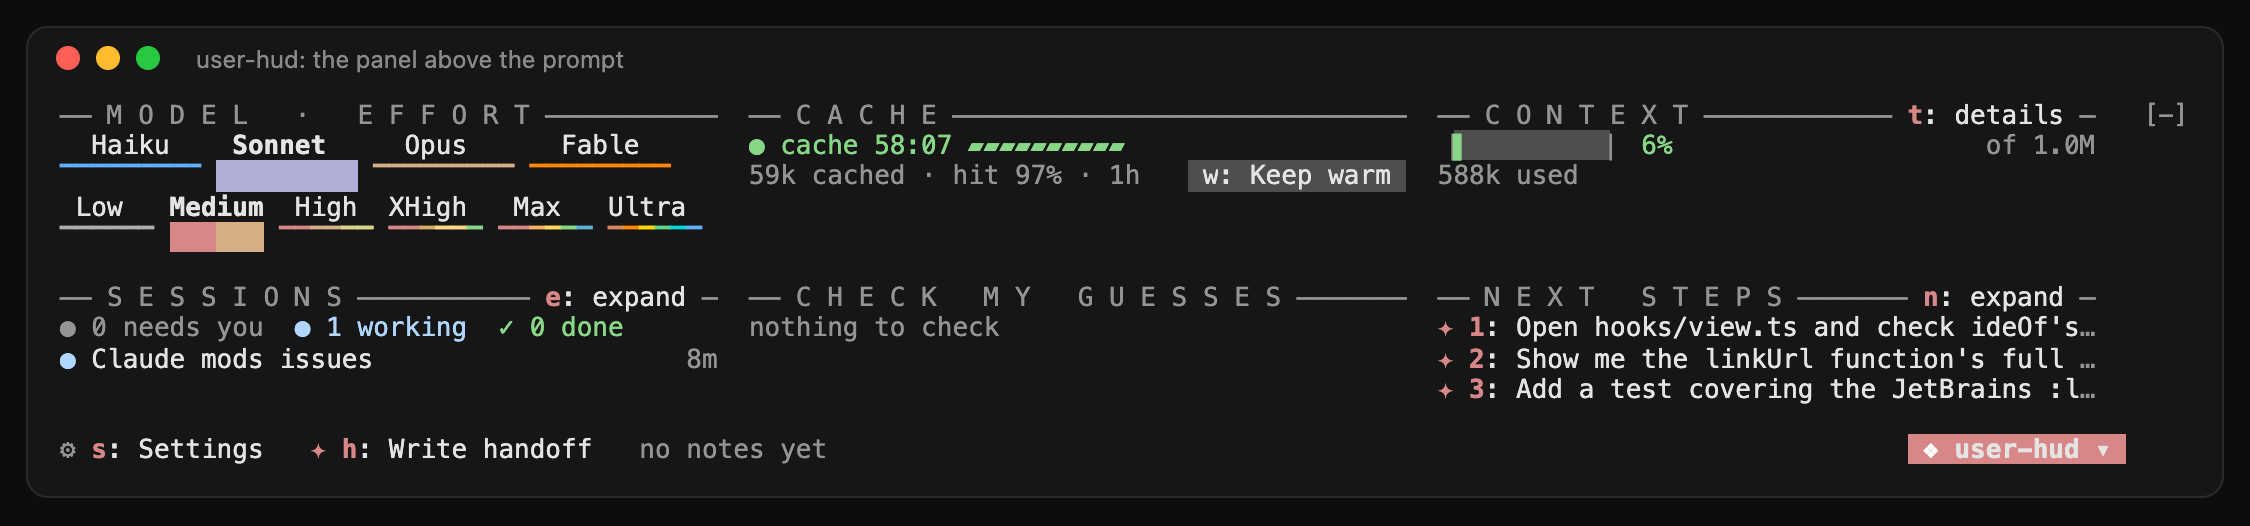
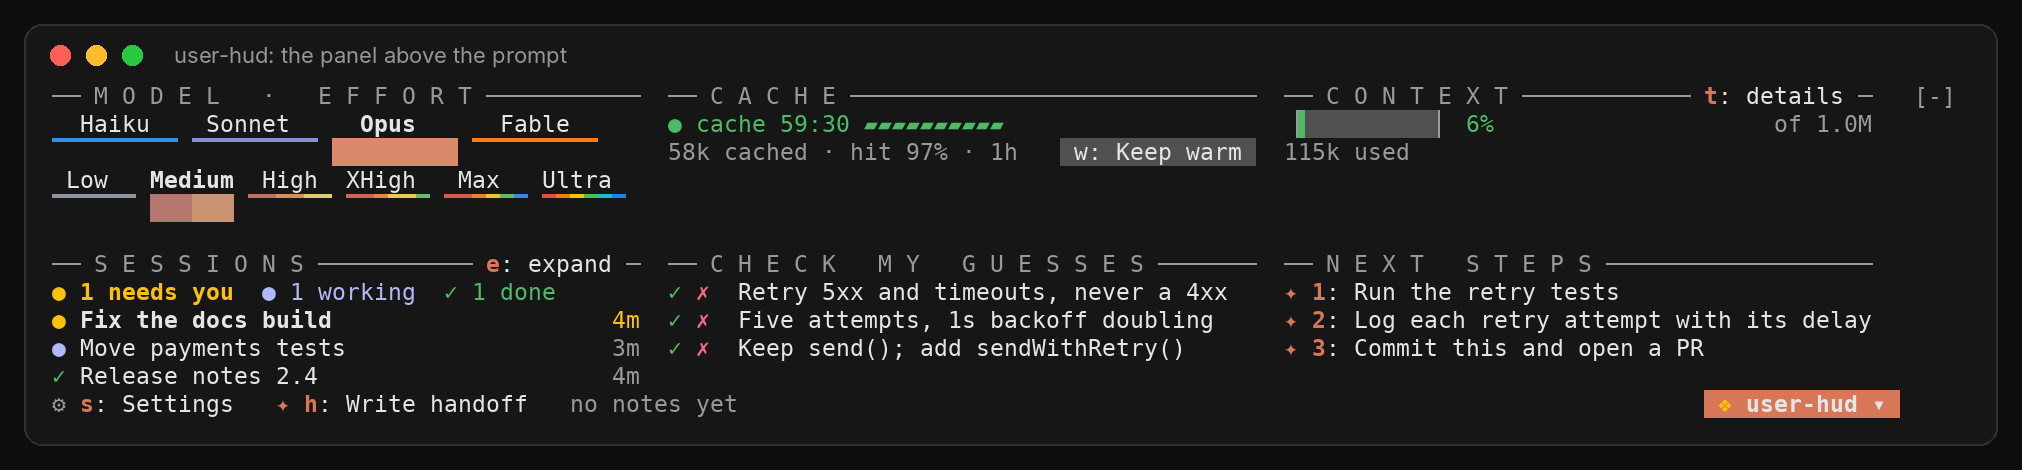
README: cache alert clip, a session that needs you, guesses filled, ask beside the chat
- user-hud: a new panel shot with one session that needs you and three
  guesses to check, a clip of the cache alert (the yellow card, the toast in
  Claude Code and the macOS alert, then Keep warm putting the countdown back
  to 5:00), and the Sessions pane.
- ask: the pane shown beside the main chat it answers from.
- Known issues: a click on a session brings its app forward, often not the
  session itself. Noted in plugins/user-hud too.

The shots come from real Claude Code 2.1.322 sessions in tmux with this
checkout's plugins, driven by a scripted stand-in for the Messages API. The
macOS alert in the clip is drawn from the title, text and timing the mod
passed to osascript, since the recording ran on Linux.

Claude-Session: https://claude.ai/code/session_01GBQBDm8ofqyuNFN33hyVpK

diff --git a/README.md b/README.md
@@ -67,7 +67,7 @@ Changes load in the next Claude Code session.
 
 ### user-hud
 
-![user-hud's panel: model and effort pickers, cache timer, context battery, sessions, guesses to check, next steps](docs/images/user-hud.png)
+![user-hud's panel: model and effort pickers, cache timer, context battery, one session that needs you, three guesses to check, next steps](docs/images/user-hud.png)
 
 A panel above the prompt, made of cards you can turn on or off:
 
@@ -78,6 +78,23 @@ A panel above the prompt, made of cards you can turn on or off:
 - **Check my guesses:** guesses Claude made for you, to mark right or wrong.
 - **Next steps:** after each reply, up to three follow-up prompts; `1`, `2` or `3` puts one in the prompt box.
 - **Handoff:** write a handoff note for the next session, or read the newest one.
+
+#### The cache alert
+
+![The cache alert: at 2:00 left the cache card turns yellow, a toast shows in Claude Code and a macOS alert offers Keep warm; pressing it puts the countdown back to 5:00](docs/images/cache-alert.gif)
+
+With 2 minutes left on the cache and Claude idle, two alerts come at once:
+
+- **In Claude Code:** the cache card turns yellow and a toast says how long is left and how many tokens are cached. It stays for 20 seconds.
+- **On macOS:** an alert with **Dismiss** and **Keep warm**, and the Glass sound. It closes by itself after 7 seconds (**macOS alert stays** in the settings).
+
+**Keep warm** on the alert, `w` on the panel or `/keepwarm` re-reads the cache, and the countdown starts again from the top. Each alert fires once per countdown.
+
+#### Sessions
+
+<img src="docs/images/sessions.png" width="560" alt="The Sessions pane: Fix the docs build needs you, Move payments tests is working, Release notes 2.4 is done">
+
+The card counts your other sessions by what they need: yellow `●` needs you (a permission prompt or a question is waiting), blue `●` is working, green `✓` is done. `e` opens the Sessions pane with every session listed. Click a session to bring forward the app it runs in, such as your terminal, VS Code or the desktop app. It does not always land on that session: see [Known issues](#known-issues).
 
 More in [plugins/user-hud](plugins/user-hud/README.md).
 
@@ -93,9 +110,9 @@ More in [plugins/code-reference](plugins/code-reference/README.md).
 
 ### ask
 
-<img src="docs/images/ask.png" width="480" alt="The ask pane: a question and a flowchart drawn in box characters">
+![The main chat on the left, and on the right the ask pane answering a /draw question with a flowchart of the retry loop](docs/images/ask.png)
 
-A side chat in a pane. Each question goes to a copy of the main chat, so the answer knows your whole session, and nothing is added to the main chat unless you press `s`. `/draw` answers with a diagram: box characters in the terminal, a picture in the desktop app. `/ask-rewind` takes back the newest question and answer.
+A side chat in a pane beside the main chat. Each question goes to a copy of the main chat, so the answer knows your whole session, and nothing is added to the main chat unless you press `s`. `/draw` answers with a diagram: box characters in the terminal, a picture in the desktop app. `/ask-rewind` takes back the newest question and answer.
 
 More in [plugins/ask](plugins/ask/README.md).
 
@@ -118,7 +135,8 @@ More in [plugins/delegator](plugins/delegator/README.md).
 - **The VS Code extension and the mobile app draw no panels.** There the mods show plain text and buttons instead.
 - **On the desktop app, `/config` has no plugin settings.** Use `/plugin configure <mod>@polar-mods`, or user-hud's `s` key. `/delegator on` and `off` there need `claude` on your PATH.
 - **Some links don't open at the line.** Cmd-click opens a code-reference link at the line in VS Code, Cursor, Windsurf and JetBrains terminals. Elsewhere it opens the file, unless **Editor command** names `code`, `cursor` or `windsurf`.
-- **macOS only:** user-hud's cache alert and its sound.
+- **Clicking a session brings its app forward, not the session.** A click on a row in user-hud's Sessions card or pane switches you to the app that session runs in (the terminal, VS Code, a JetBrains IDE or the desktop app), but often not to that session's own tab or window. Find the session there yourself.
+- **macOS only:** user-hud's macOS alert and its sound. The toast and the yellow card show everywhere.
 - **These cost tokens:** each `/ask` question reads the main chat (billed at the cheaper cache-read rate); next steps make one short Haiku call per reply; automatic keep-warm pings, when you turn them on, are billed as cache reads.
 - **delegator waits for you.** Every subagent waits until you answer. Use **Approve all this turn**, or `/delegator off`. Turning it off doesn't release agents that are already waiting.
 

diff --git a/plugins/user-hud/README.md b/plugins/user-hud/README.md
@@ -150,6 +150,8 @@ The **SESSIONS** card counts your other Claude Code sessions on this machine, th
   - **GoLand and the other JetBrains IDEs:** the window of the project holding the session's folder (the nearest `.idea` above it). The IDE's own executable, found above the session's process (or above its tmux client), hands that folder to the running IDE, which brings the project's window forward. Again the terminal tab stays as it was.
   - **Any other app:** the app comes forward. When a step cannot find the tab (it was closed), the app still comes forward.
 
+  Known issue: in practice the jump often stops at the app, and the session's own tab or window is not brought forward. Switch to it there yourself.
+
   Where it runs is read from the session's process (`ps`): only the few variables terminals set to say so (`TERM_PROGRAM`, `__CFBundleIdentifier`, `ORCA_TERMINAL_HANDLE`, `ITERM_SESSION_ID`, `TMUX`, `TMUX_PANE`, `TERMINAL_EMULATOR`, `CLAUDE_CODE_SSE_PORT`), each checked for its shape before it goes on a command line; the rest of the environment is never kept. The first jump to Terminal, iTerm2 or Ghostty asks macOS to let the app that runs Claude Code control it.
 - **e: expand** (`e`) opens the Sessions pane, a grid of cells like the band. `z` shows or hides the sessions asleep, and `e` closes it. In a narrow pane its notes wrap under their headings rather than end in `…`, and the rule drops `N live` before `e: close`.
 
